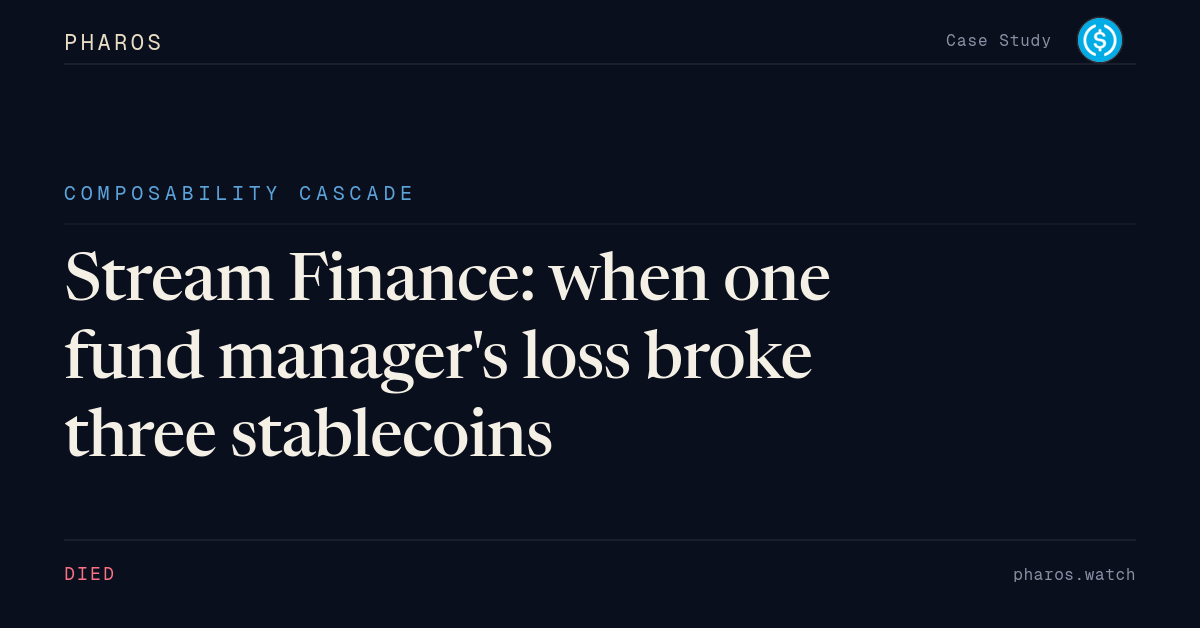
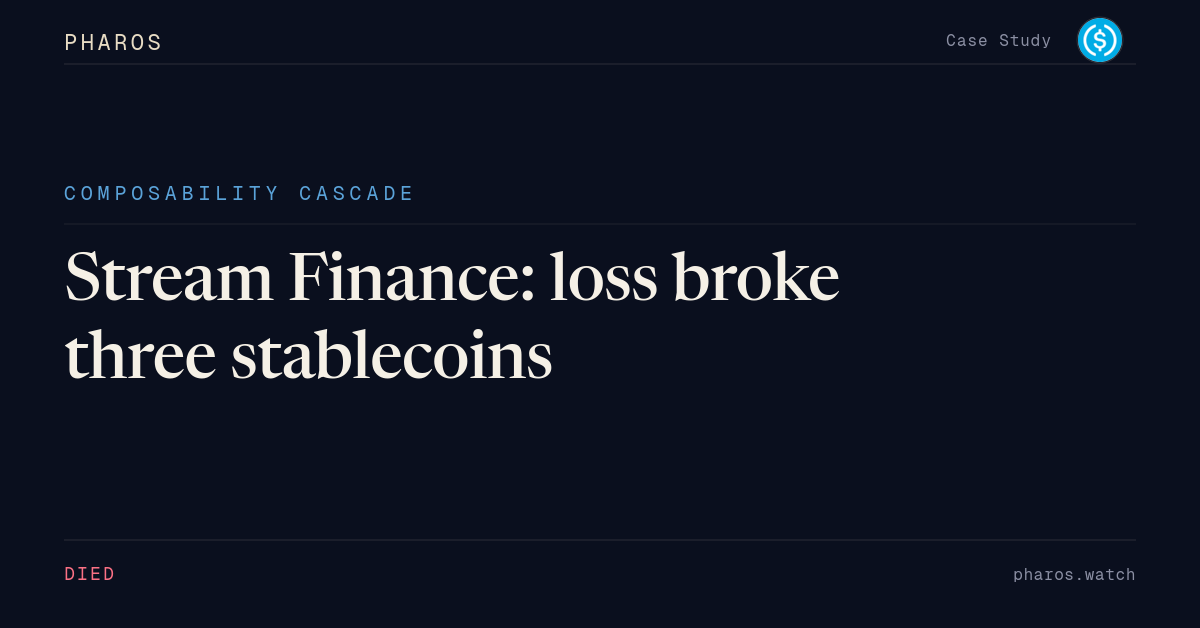
Update case-study titles, OG assets, and metadata

Changed region(s): [[0.0617, 0.5143, 0.6783, 0.6354], [0.0308, 0.6354, 0.4625, 0.7261], [0.4625, 0.3933, 0.7092, 0.4841]]

diff --git a/src/app/learn/case-studies/content/stream-elixir-contagion-2025.ts b/src/app/learn/case-studies/content/stream-elixir-contagion-2025.ts
@@ -3,7 +3,7 @@ import type { CaseStudy } from "./types";
 export const content: CaseStudy = {
   slug: "stream-elixir-contagion-2025",
   eyebrow: "Composability cascade",
-  title: "Stream Finance: when one fund manager's loss broke three stablecoins",
+  title: "Stream Finance: loss broke three stablecoins",
   subtitle:
     "A ~$93M off-chain trading loss at Stream Finance detonated a ~$285M cross-protocol cascade, because xUSD had been re-hypothecated as leveraged collateral across lending markets that priced it at a hardcoded $1.",
   lead: [

diff --git a/src/app/learn/case-studies/content/usdn-neutrino-2022.ts b/src/app/learn/case-studies/content/usdn-neutrino-2022.ts
@@ -3,7 +3,7 @@ import type { CaseStudy } from "./types";
 export const content: CaseStudy = {
   slug: "usdn-neutrino-2022",
   eyebrow: "Algorithmic collapse",
-  title: "Neutrino USD: the billion-dollar algo death five weeks before Terra",
+  title: "Neutrino USD: the stablecoin collapse before Terra",
   subtitle:
     "A WAVES-collateralized algorithmic stablecoin that broke peg in April 2022 on circular-leverage allegations, never durably recovered, and was quietly retired as the floating index token XTN.",
   lead: [
